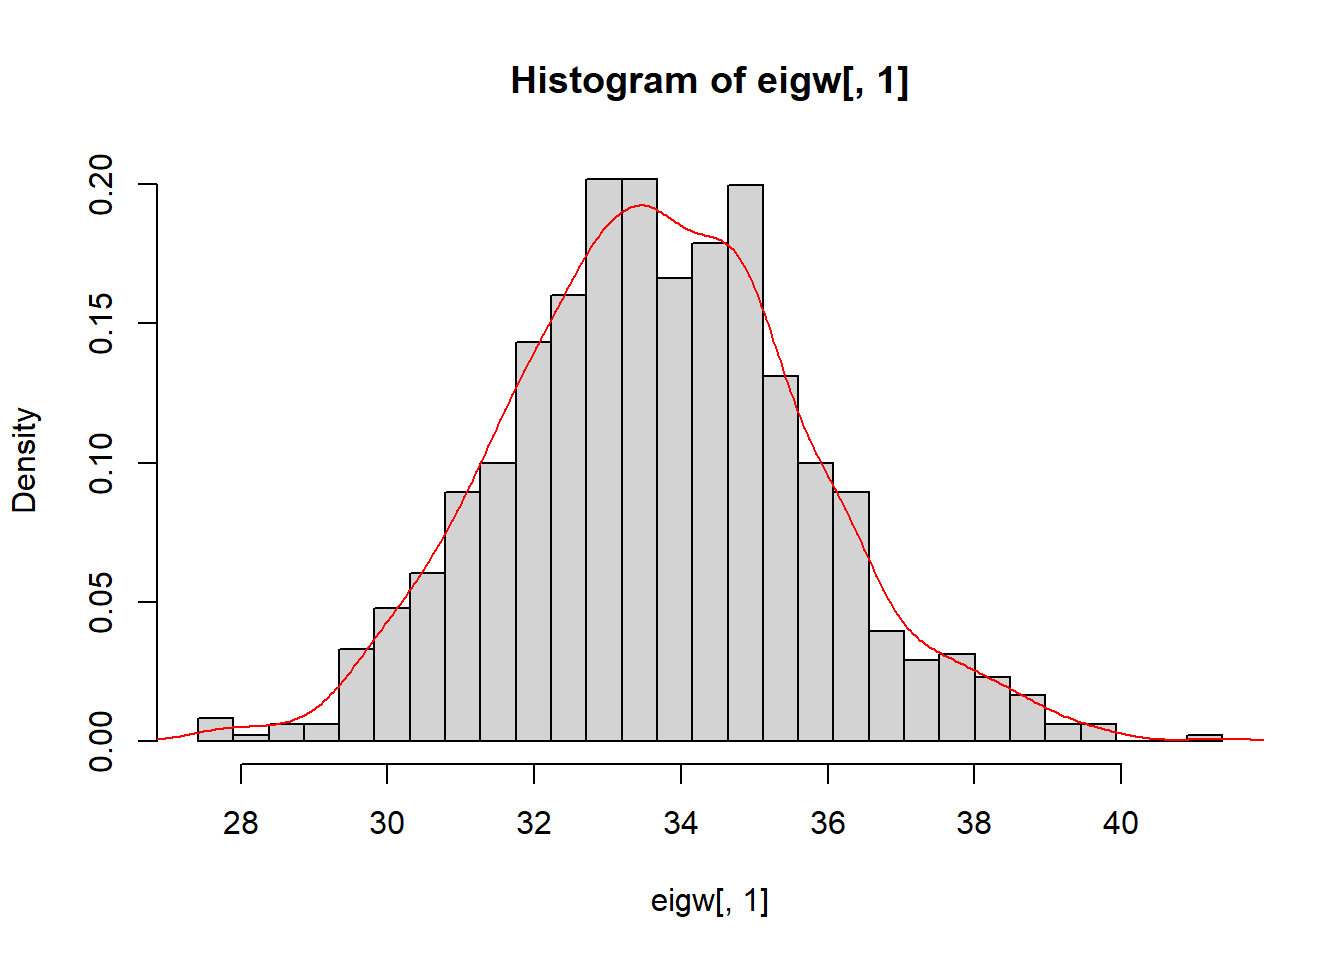
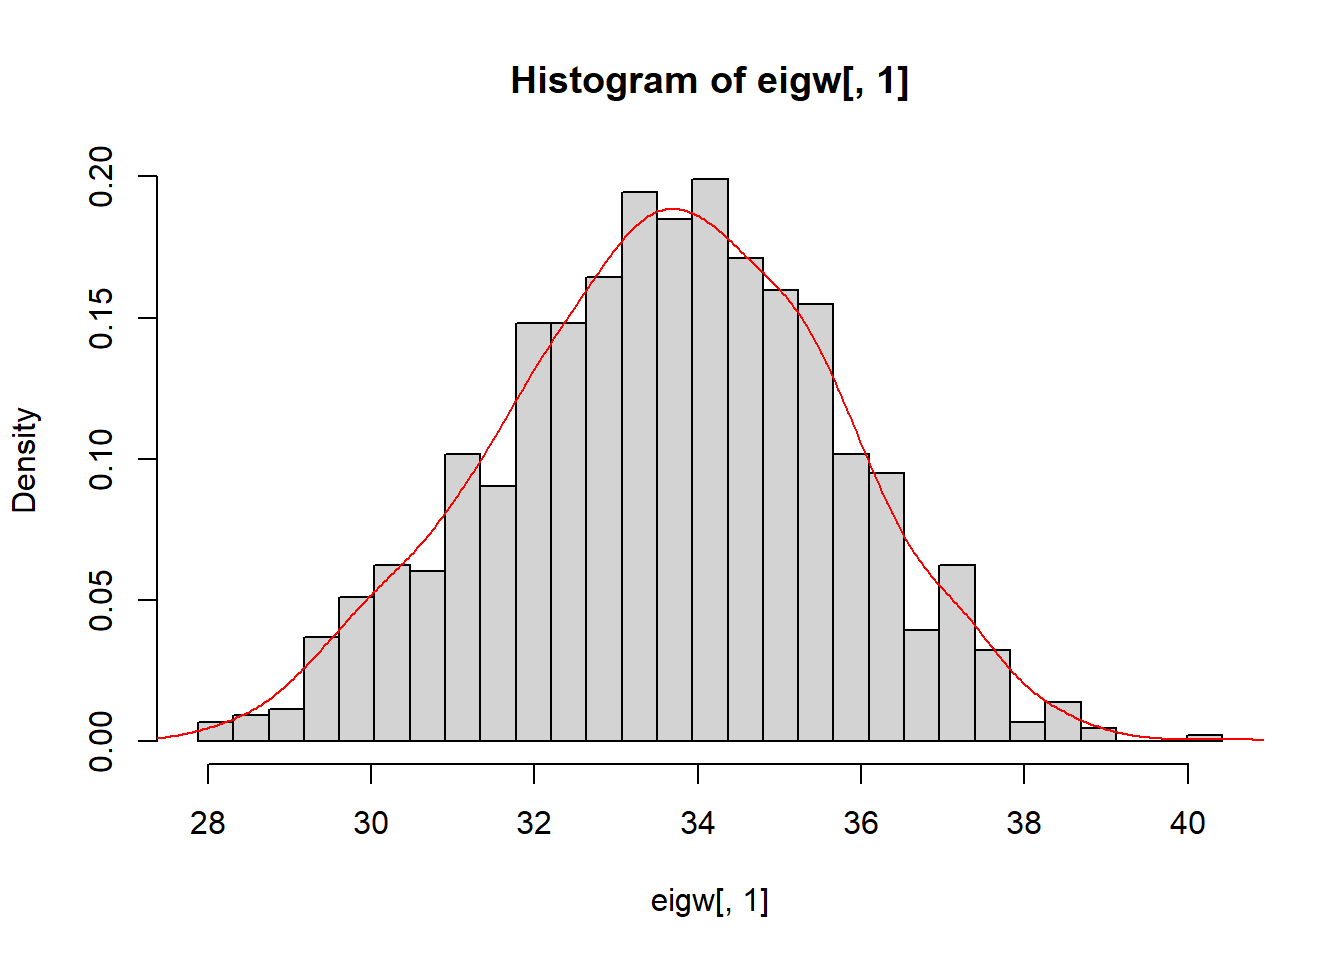
quotient idea

diff --git a/Notes/Max/max.html b/Notes/Max/max.html
@@ -216,17 +216,22 @@ window.Quarto = {
 <div class="cell">
 <div class="sourceCode cell-code" id="cb1"><pre class="sourceCode r code-with-copy"><code class="sourceCode r"><span id="cb1-1"><a href="#cb1-1" aria-hidden="true" tabindex="-1"></a>lambda012 <span class="ot">&lt;-</span> <span class="cf">function</span>(n,u,s)</span>
 <span id="cb1-2"><a href="#cb1-2" aria-hidden="true" tabindex="-1"></a>{</span>
-<span id="cb1-3"><a href="#cb1-3" aria-hidden="true" tabindex="-1"></a>  X <span class="ot">&lt;-</span> <span class="fu">matrix</span>(<span class="fu">rnorm</span>(n<span class="sc">^</span><span class="dv">2</span>, <span class="at">mean =</span> u, <span class="at">sd=</span>s) ,<span class="at">nrow=</span>n)</span>
-<span id="cb1-4"><a href="#cb1-4" aria-hidden="true" tabindex="-1"></a>  W <span class="ot">&lt;-</span> <span class="fu">t</span>(X)<span class="sc">%*%</span>X<span class="sc">/</span>n</span>
-<span id="cb1-5"><a href="#cb1-5" aria-hidden="true" tabindex="-1"></a>  maxeig <span class="ot">&lt;-</span> <span class="fu">max</span>(<span class="fu">eigen</span>(W, <span class="at">only.values =</span> <span class="cn">TRUE</span>, <span class="at">symmetric =</span> <span class="cn">TRUE</span>)<span class="sc">$</span>values)</span>
-<span id="cb1-6"><a href="#cb1-6" aria-hidden="true" tabindex="-1"></a>  Wi <span class="ot">&lt;-</span> <span class="fu">apply</span>(W,<span class="dv">1</span>,sum)</span>
-<span id="cb1-7"><a href="#cb1-7" aria-hidden="true" tabindex="-1"></a>  lambda1 <span class="ot">&lt;-</span> (<span class="fu">sum</span>(Wi)<span class="sc">/</span>n)<span class="sc">+</span>s<span class="sc">^</span><span class="dv">2</span></span>
-<span id="cb1-8"><a href="#cb1-8" aria-hidden="true" tabindex="-1"></a>  lambda2 <span class="ot">&lt;-</span> <span class="fu">sum</span>(Wi<span class="sc">^</span><span class="dv">2</span>)<span class="sc">/</span><span class="fu">sum</span>(Wi)</span>
-<span id="cb1-9"><a href="#cb1-9" aria-hidden="true" tabindex="-1"></a>  </span>
-<span id="cb1-10"><a href="#cb1-10" aria-hidden="true" tabindex="-1"></a>  error1 <span class="ot">&lt;-</span> (lambda1<span class="sc">-</span>maxeig)<span class="sc">/</span>maxeig</span>
-<span id="cb1-11"><a href="#cb1-11" aria-hidden="true" tabindex="-1"></a>  error2 <span class="ot">&lt;-</span> (lambda2<span class="sc">-</span>maxeig)<span class="sc">/</span>maxeig</span>
-<span id="cb1-12"><a href="#cb1-12" aria-hidden="true" tabindex="-1"></a>  lambda012 <span class="ot">&lt;-</span> <span class="fu">c</span>(maxeig,lambda1,lambda2,error1,error2)</span>
-<span id="cb1-13"><a href="#cb1-13" aria-hidden="true" tabindex="-1"></a>}</span></code><button title="Copy to Clipboard" class="code-copy-button"><i class="bi"></i></button></pre></div>
+<span id="cb1-3"><a href="#cb1-3" aria-hidden="true" tabindex="-1"></a>  k <span class="ot">&lt;-</span> <span class="dv">5</span></span>
+<span id="cb1-4"><a href="#cb1-4" aria-hidden="true" tabindex="-1"></a>  X <span class="ot">&lt;-</span> <span class="fu">matrix</span>(<span class="fu">rnorm</span>(n<span class="sc">^</span><span class="dv">2</span>, <span class="at">mean =</span> u, <span class="at">sd=</span>s) ,<span class="at">nrow=</span>n)</span>
+<span id="cb1-5"><a href="#cb1-5" aria-hidden="true" tabindex="-1"></a>  W <span class="ot">&lt;-</span> <span class="fu">t</span>(X)<span class="sc">%*%</span>X<span class="sc">/</span>n</span>
+<span id="cb1-6"><a href="#cb1-6" aria-hidden="true" tabindex="-1"></a>  maxeig <span class="ot">&lt;-</span> <span class="fu">max</span>(<span class="fu">eigen</span>(W, <span class="at">only.values =</span> <span class="cn">TRUE</span>, <span class="at">symmetric =</span> <span class="cn">TRUE</span>)<span class="sc">$</span>values)</span>
+<span id="cb1-7"><a href="#cb1-7" aria-hidden="true" tabindex="-1"></a>  Wi <span class="ot">&lt;-</span> <span class="fu">apply</span>(W,<span class="dv">1</span>,sum)</span>
+<span id="cb1-8"><a href="#cb1-8" aria-hidden="true" tabindex="-1"></a>  lambda1 <span class="ot">&lt;-</span> (<span class="fu">sum</span>(Wi)<span class="sc">/</span>n)<span class="sc">+</span>s<span class="sc">^</span><span class="dv">2</span></span>
+<span id="cb1-9"><a href="#cb1-9" aria-hidden="true" tabindex="-1"></a>  lambda2 <span class="ot">&lt;-</span> <span class="fu">sum</span>(Wi<span class="sc">^</span><span class="dv">2</span>)<span class="sc">/</span><span class="fu">sum</span>(Wi)</span>
+<span id="cb1-10"><a href="#cb1-10" aria-hidden="true" tabindex="-1"></a>  stepk <span class="ot">&lt;-</span> <span class="fu">t</span>(<span class="fu">rep</span>(<span class="dv">1</span>,n)) <span class="sc">%*%</span>  ((W<span class="sc">%^%</span>k) <span class="sc">%*%</span> <span class="fu">rep</span>(<span class="dv">1</span>,n))  </span>
+<span id="cb1-11"><a href="#cb1-11" aria-hidden="true" tabindex="-1"></a>  stepk_ <span class="ot">&lt;-</span> <span class="fu">t</span>(<span class="fu">rep</span>(<span class="dv">1</span>,n)) <span class="sc">%*%</span>  ((W<span class="sc">%^%</span>(k<span class="dv">-1</span>)) <span class="sc">%*%</span> <span class="fu">rep</span>(<span class="dv">1</span>,n))  </span>
+<span id="cb1-12"><a href="#cb1-12" aria-hidden="true" tabindex="-1"></a>  lambdak <span class="ot">&lt;-</span> stepk<span class="sc">/</span>stepk_</span>
+<span id="cb1-13"><a href="#cb1-13" aria-hidden="true" tabindex="-1"></a>  </span>
+<span id="cb1-14"><a href="#cb1-14" aria-hidden="true" tabindex="-1"></a>  error1 <span class="ot">&lt;-</span> (lambda1<span class="sc">-</span>maxeig)<span class="sc">/</span>maxeig</span>
+<span id="cb1-15"><a href="#cb1-15" aria-hidden="true" tabindex="-1"></a>  error2 <span class="ot">&lt;-</span> (lambda2<span class="sc">-</span>maxeig)<span class="sc">/</span>maxeig</span>
+<span id="cb1-16"><a href="#cb1-16" aria-hidden="true" tabindex="-1"></a>  errork <span class="ot">&lt;-</span> (lambdak<span class="sc">-</span>maxeig)<span class="sc">/</span>maxeig</span>
+<span id="cb1-17"><a href="#cb1-17" aria-hidden="true" tabindex="-1"></a>  lambda012 <span class="ot">&lt;-</span> <span class="fu">c</span>(maxeig,lambda1,lambda2,error1,error2,errork)</span>
+<span id="cb1-18"><a href="#cb1-18" aria-hidden="true" tabindex="-1"></a>}</span></code><button title="Copy to Clipboard" class="code-copy-button"><i class="bi"></i></button></pre></div>
 </div>
 <p>Make a histogram to illustrate the distribution of the maximum eigenvalue.</p>
 <div class="cell">
@@ -235,7 +240,7 @@ window.Quarto = {
 <span id="cb2-3"><a href="#cb2-3" aria-hidden="true" tabindex="-1"></a>s <span class="ot">=</span> <span class="dv">2</span></span>
 <span id="cb2-4"><a href="#cb2-4" aria-hidden="true" tabindex="-1"></a>iter <span class="ot">&lt;-</span> <span class="dv">1000</span></span>
 <span id="cb2-5"><a href="#cb2-5" aria-hidden="true" tabindex="-1"></a></span>
-<span id="cb2-6"><a href="#cb2-6" aria-hidden="true" tabindex="-1"></a>eigw <span class="ot">&lt;-</span> <span class="fu">matrix</span>(<span class="at">nrow =</span> iter, <span class="at">ncol =</span> <span class="dv">5</span>)</span>
+<span id="cb2-6"><a href="#cb2-6" aria-hidden="true" tabindex="-1"></a>eigw <span class="ot">&lt;-</span> <span class="fu">matrix</span>(<span class="at">nrow =</span> iter, <span class="at">ncol =</span> <span class="dv">6</span>)</span>
 <span id="cb2-7"><a href="#cb2-7" aria-hidden="true" tabindex="-1"></a><span class="cf">for</span> (i <span class="cf">in</span> <span class="dv">1</span><span class="sc">:</span>iter) eigw[i,] <span class="ot">&lt;-</span> <span class="fu">lambda012</span>(n,u,s)</span>
 <span id="cb2-8"><a href="#cb2-8" aria-hidden="true" tabindex="-1"></a></span>
 <span id="cb2-9"><a href="#cb2-9" aria-hidden="true" tabindex="-1"></a></span>
@@ -250,11 +255,11 @@ window.Quarto = {
 </div>
 </div>
 </div>
-<p>Let <span class="math inline">\(W_i\)</span> is the summation of ith row of <span class="math inline">\(W\)</span>. Two different estimations of maximum eigenvalue are <span class="math inline">\(\lambda_1=  \frac{1}{n}\sum_{i} Wi+\sigma^2\)</span> and <span class="math inline">\(\lambda_2=\frac{\sum_{i}W_i^2}{\sum_{i}W_i}\)</span>. The errors between them and the real eigenvalues are showed as following.</p>
+<p>We use the quotient <span class="math inline">\(\frac{&lt;\mathbf{1},W^{k}\mathbf{1}&gt;}{&lt;\mathbf{1},W^{k-1}\mathbf{1}&gt;}\)</span> to estimate the maximum eigenvalues. The errors between them and the real eigenvalues are showed as following figure where we take <span class="math inline">\(k=1,2,5\)</span> and adjust the estimation when <span class="math inline">\(k=1\)</span> with shifting <span class="math inline">\(\sigma^2\)</span>.</p>
 <div class="cell">
-<div class="sourceCode cell-code" id="cb3"><pre class="sourceCode r code-with-copy"><code class="sourceCode r"><span id="cb3-1"><a href="#cb3-1" aria-hidden="true" tabindex="-1"></a>error <span class="ot">&lt;-</span> <span class="fu">c</span>(eigw[,<span class="dv">4</span>],eigw[,<span class="dv">5</span>])</span>
-<span id="cb3-2"><a href="#cb3-2" aria-hidden="true" tabindex="-1"></a>index <span class="ot">&lt;-</span> <span class="fu">c</span>(<span class="fu">rep</span>(<span class="st">"lambda1"</span>,iter),<span class="fu">rep</span>(<span class="st">"lambda2"</span>,iter))</span>
-<span id="cb3-3"><a href="#cb3-3" aria-hidden="true" tabindex="-1"></a>xx <span class="ot">&lt;-</span> <span class="fu">rep</span>((<span class="dv">1</span><span class="sc">:</span>iter),<span class="dv">2</span>)</span>
+<div class="sourceCode cell-code" id="cb3"><pre class="sourceCode r code-with-copy"><code class="sourceCode r"><span id="cb3-1"><a href="#cb3-1" aria-hidden="true" tabindex="-1"></a>error <span class="ot">&lt;-</span> <span class="fu">c</span>(eigw[,<span class="dv">4</span>],eigw[,<span class="dv">5</span>], eigw[,<span class="dv">6</span>])</span>
+<span id="cb3-2"><a href="#cb3-2" aria-hidden="true" tabindex="-1"></a>index <span class="ot">&lt;-</span> <span class="fu">c</span>(<span class="fu">rep</span>(<span class="st">"lambda1"</span>,iter),<span class="fu">rep</span>(<span class="st">"lambda2"</span>,iter),<span class="fu">rep</span>(<span class="st">"lambdak"</span>,iter))</span>
+<span id="cb3-3"><a href="#cb3-3" aria-hidden="true" tabindex="-1"></a>xx <span class="ot">&lt;-</span> <span class="fu">rep</span>((<span class="dv">1</span><span class="sc">:</span>iter),<span class="dv">3</span>)</span>
 <span id="cb3-4"><a href="#cb3-4" aria-hidden="true" tabindex="-1"></a>df <span class="ot">&lt;-</span> <span class="fu">data.frame</span>(xx,error,index)</span>
 <span id="cb3-5"><a href="#cb3-5" aria-hidden="true" tabindex="-1"></a></span>
 <span id="cb3-6"><a href="#cb3-6" aria-hidden="true" tabindex="-1"></a><span class="fu">ggplot</span>(df, <span class="fu">aes</span>(<span class="at">x=</span>xx,<span class="at">y=</span>error,<span class="at">color=</span>index))<span class="sc">+</span></span>

diff --git a/index.html b/index.html
@@ -241,7 +241,7 @@ window.Quarto = {
 <h2 data-anchor-id="notes">Notes</h2>
 <div id="listing-Notes" class="quarto-listing quarto-listing-container-grid">
 <div class="list grid quarto-listing-cols-3">
-<div class="g-col-1" data-index="0" data-listing-date-sort="1725638400000" data-listing-file-modified-sort="1725717445344" data-listing-date-modified-sort="NaN" data-listing-reading-time-sort="1" data-listing-word-count-sort="184">
+<div class="g-col-1" data-index="0" data-listing-date-sort="1725638400000" data-listing-file-modified-sort="1725760009638" data-listing-date-modified-sort="NaN" data-listing-reading-time-sort="2" data-listing-word-count-sort="223">
 <a href="./Notes/Max/max.html" class="quarto-grid-link">
 <div class="quarto-grid-item card h-100 card-left">
 <div class="card-body post-contents">
